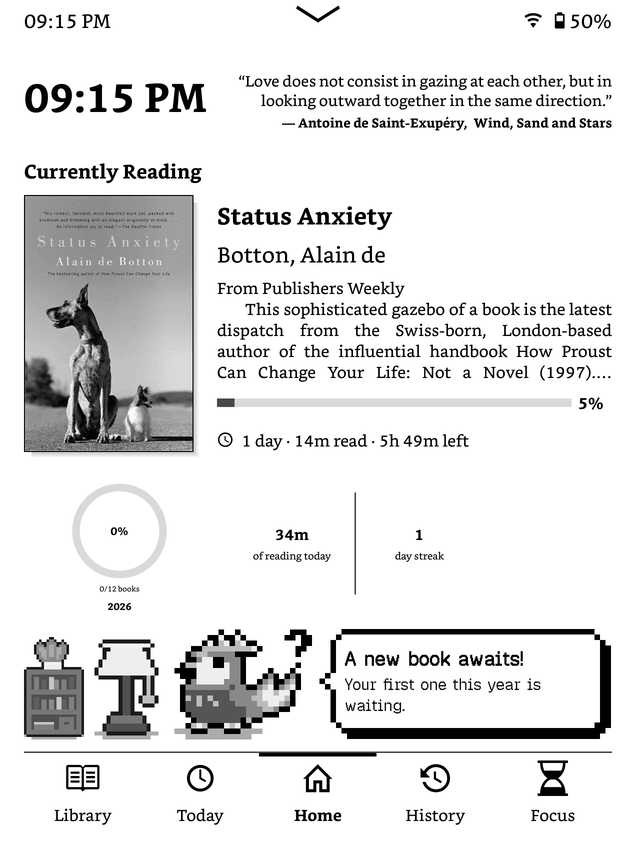
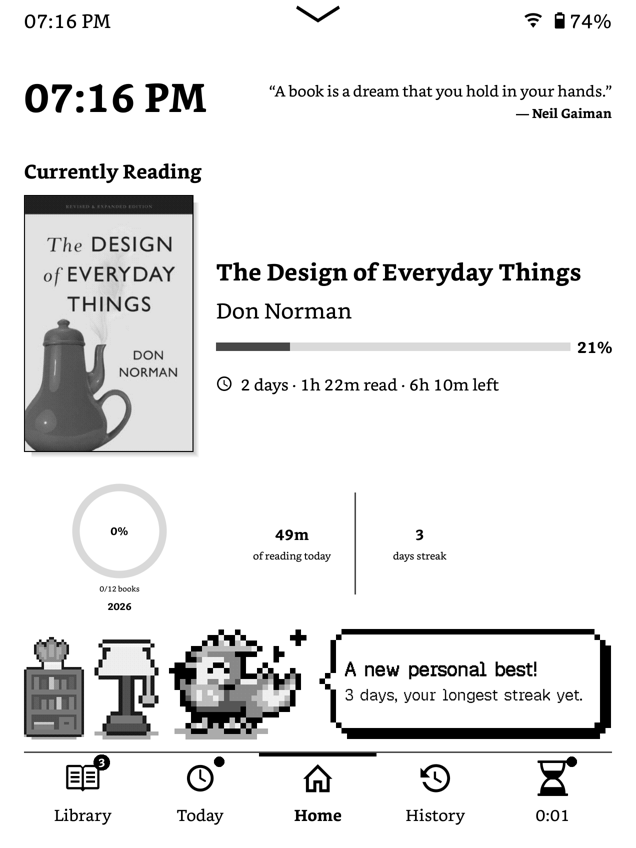
Tab marks (focus time, adhkar dot, streak badge), tasbih on lock screen, sharp Geist Pixel; new screenshots

diff --git a/README.md b/README.md
@@ -32,7 +32,9 @@ Simple UI is the start screen and the screen after a book closes (Simple UI sett
 - **History**: newest first. Tap a session to change its label, date, start or end, or to delete it. **+ Add past session** adds one by hand. An end time before the start time is on the next day. Times in the future or more than 12 months ago are rejected. Sessions older than 12 months (day totals) cannot be edited.
 - **Idle view**: while the stopwatch runs and nobody touches it for `focus_idle_seconds`, it shows the label, the running time (h:mm:ss) and the weekly goal left, turned 90° clockwise. Only the time area is redrawn each second. A touch goes back to the stopwatch and does nothing else. While it runs, the stopwatch keeps the Kindle awake (KOReader auto-suspend paused, powerd `preventScreenSaver`); the power button still sleeps it.
 - **Session labels and weekly goals**: Start asks for a label (default: Work, Uni Study, Research Work, Personal Study; the last used label is first). The stopwatch shows one row per label with the time done this week (from Monday) and the time left to its weekly goal, or "Goal met". Tap **Labels** (when the stopwatch is not running) to add, rename or remove a label and to set its goal in hours. A removed label leaves the Start list only: its past sessions keep their label and still count.
-- **Anqa lock screen** while the device sleeps, unlocked with a swipe up. It is drawn at each sleep from KOReader's reading statistics: party (a book finished today), sad (no reading today), cheer (a 7-day streak or more), heart (daily goal met) or sleepy, with one line about today.
+- **Anqa lock screen** while the device sleeps, unlocked with a swipe up. It is drawn at each sleep from KOReader's reading statistics: party (a book finished today), sad (no reading today), cheer (a 7-day streak or more), heart (daily goal met) or sleepy, with one line about today in Geist Pixel (Simple UI's pixel font, at a size that keeps its pixels sharp). While adhkar are due, Anqa has a tasbih.
+
+- **Bottom bar marks**: the Focus tab shows the running time (h:mm) and a dot while focus runs; the tab of a Custom Screen with the Adhkar reminder module shows a dot while adhkar are due; the Library tab shows the reading streak in days. They are checked each minute.
 - **Arabic books** turn pages right-to-left automatically.
 - **Bluetooth** (Settings tab → Bluetooth, after Network): turn Bluetooth on or off, scan, pair, connect, disconnect, and forget (hold) devices, through Amazon's `com.lab126.btfd` over lipc. No Amazon UI needed. Works with [KinAMP](https://github.com/kbarni/KinAMP) for music while reading.
 - **Home folder sort**: the home folder is sorted by "last opened" (reading history).
